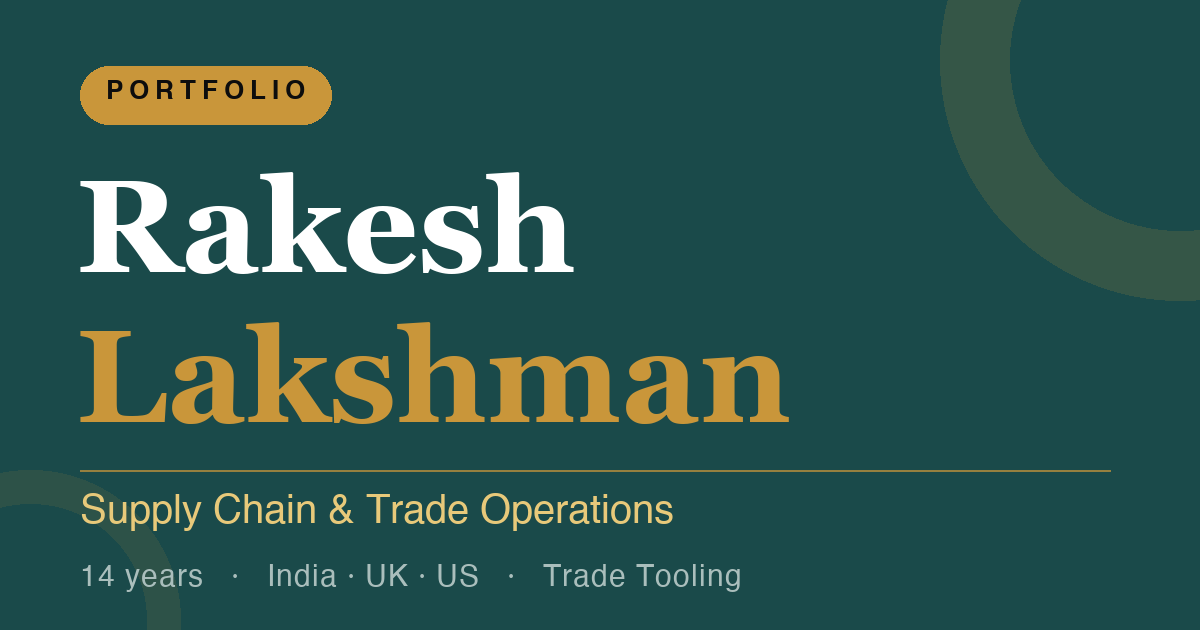
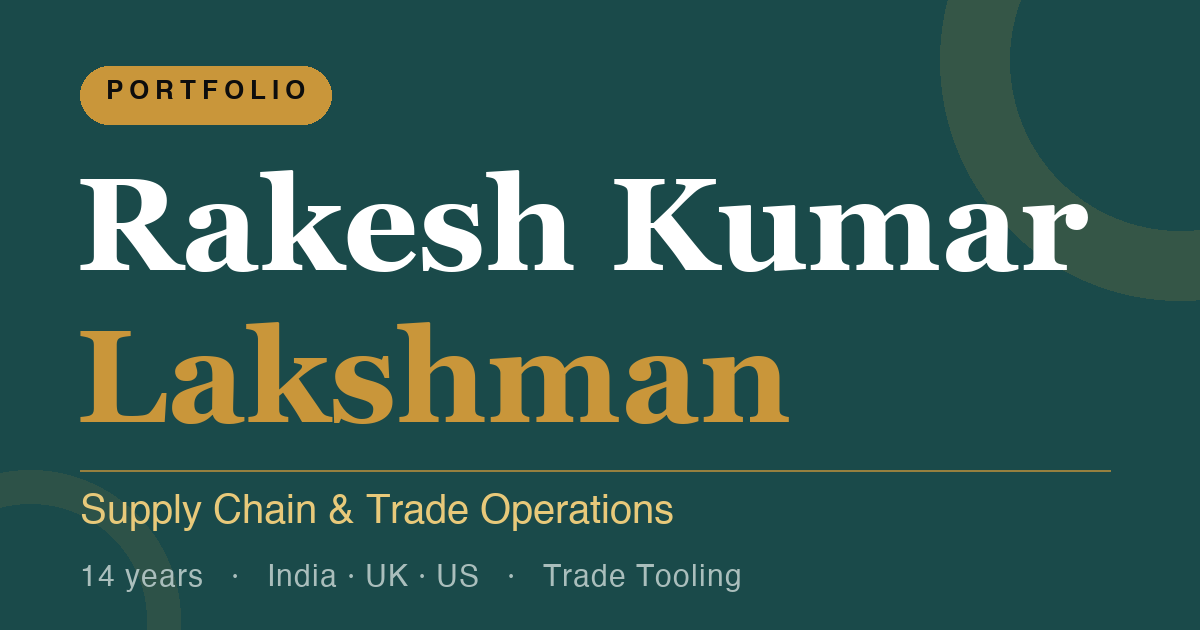
Use full legal name Rakesh Kumar Lakshman across page, meta and share card

diff --git a/index.html b/index.html
@@ -3,15 +3,15 @@
 <head>
 <meta charset="UTF-8">
 <meta name="viewport" content="width=device-width, initial-scale=1.0">
-<title>Rakesh Lakshman · Supply Chain & Trade Operations</title>
+<title>Rakesh Kumar Lakshman · Supply Chain & Trade Operations</title>
 <meta name="description" content="Fourteen years running supply chain and trade operations across India, the UK and the US, and building the tools that fix what slows them down." />
 <meta property="og:type" content="website" />
-<meta property="og:title" content="Rakesh Lakshman · Supply Chain & Trade Operations" />
+<meta property="og:title" content="Rakesh Kumar Lakshman · Supply Chain & Trade Operations" />
 <meta property="og:description" content="Fourteen years running supply chain and trade operations across India, the UK and the US, and building the tools that fix what slows them down." />
 <meta property="og:url" content="https://sonho87.github.io/rakesh-portfolio/" />
 <meta property="og:image" content="https://sonho87.github.io/rakesh-portfolio/portfolio-og.png" />
 <meta name="twitter:card" content="summary_large_image" />
-<meta name="twitter:title" content="Rakesh Lakshman · Supply Chain & Trade Operations" />
+<meta name="twitter:title" content="Rakesh Kumar Lakshman · Supply Chain & Trade Operations" />
 <meta name="twitter:description" content="Supply chain and trade operations across India, the UK and the US, and the tools that make them run cheaper." />
 <meta name="twitter:image" content="https://sonho87.github.io/rakesh-portfolio/portfolio-og.png" />
 <link href="https://fonts.googleapis.com/css2?family=Playfair+Display:wght@400;700;900&family=DM+Sans:wght@300;400;500&display=swap" rel="stylesheet">
@@ -624,7 +624,7 @@
 <section class="hero" style="border-bottom:1px solid var(--line); padding:0;">
   <div class="hero-left">
     <div class="hero-tag">Supply Chain &amp; Trade Operations</div>
-    <h1 class="hero-name">Rakesh<span>Lakshman</span></h1>
+    <h1 class="hero-name">Rakesh Kumar<span>Lakshman</span></h1>
     <p class="hero-role">Fourteen years running supply chain and trade operations across India, the UK and the US, and I build the tools that fix what slows them down.</p>
     <div class="hero-contact">
       <a href="mailto:raakheshl3@gmail.com">raakheshl3@gmail.com</a>

diff --git a/portfolio.html b/portfolio.html
@@ -3,15 +3,15 @@
 <head>
 <meta charset="UTF-8">
 <meta name="viewport" content="width=device-width, initial-scale=1.0">
-<title>Rakesh Lakshman · Supply Chain & Trade Operations</title>
+<title>Rakesh Kumar Lakshman · Supply Chain & Trade Operations</title>
 <meta name="description" content="Fourteen years running supply chain and trade operations across India, the UK and the US, and building the tools that fix what slows them down." />
 <meta property="og:type" content="website" />
-<meta property="og:title" content="Rakesh Lakshman · Supply Chain & Trade Operations" />
+<meta property="og:title" content="Rakesh Kumar Lakshman · Supply Chain & Trade Operations" />
 <meta property="og:description" content="Fourteen years running supply chain and trade operations across India, the UK and the US, and building the tools that fix what slows them down." />
 <meta property="og:url" content="https://sonho87.github.io/rakesh-portfolio/" />
 <meta property="og:image" content="https://sonho87.github.io/rakesh-portfolio/portfolio-og.png" />
 <meta name="twitter:card" content="summary_large_image" />
-<meta name="twitter:title" content="Rakesh Lakshman · Supply Chain & Trade Operations" />
+<meta name="twitter:title" content="Rakesh Kumar Lakshman · Supply Chain & Trade Operations" />
 <meta name="twitter:description" content="Supply chain and trade operations across India, the UK and the US, and the tools that make them run cheaper." />
 <meta name="twitter:image" content="https://sonho87.github.io/rakesh-portfolio/portfolio-og.png" />
 <link href="https://fonts.googleapis.com/css2?family=Playfair+Display:wght@400;700;900&family=DM+Sans:wght@300;400;500&display=swap" rel="stylesheet">
@@ -624,7 +624,7 @@
 <section class="hero" style="border-bottom:1px solid var(--line); padding:0;">
   <div class="hero-left">
     <div class="hero-tag">Supply Chain &amp; Trade Operations</div>
-    <h1 class="hero-name">Rakesh<span>Lakshman</span></h1>
+    <h1 class="hero-name">Rakesh Kumar<span>Lakshman</span></h1>
     <p class="hero-role">Fourteen years running supply chain and trade operations across India, the UK and the US, and I build the tools that fix what slows them down.</p>
     <div class="hero-contact">
       <a href="mailto:raakheshl3@gmail.com">raakheshl3@gmail.com</a>
